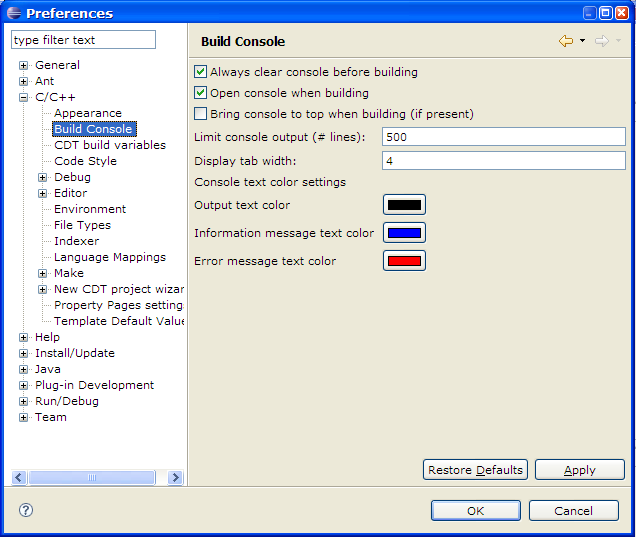
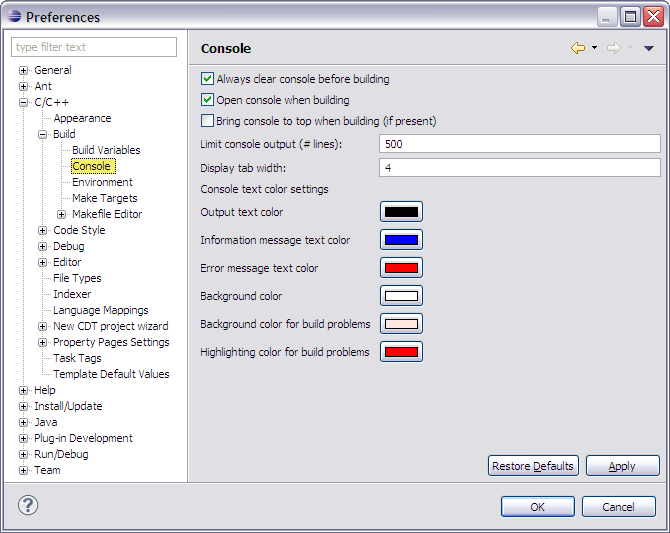
Revised Build Console pref panel to renamed Console pref panel with updated image.

Changed region(s): [[0.0, 0.0, 1.0, 1.0]]

diff --git a/all/org.eclipse.cdt.doc.user/reference/cdt_u_build_pref.htm b/all/org.eclipse.cdt.doc.user/reference/cdt_u_build_pref.htm
@@ -4,19 +4,19 @@
 <head>
 <meta http-equiv="Content-Language" content="en-us">
 <meta http-equiv="Content-Type" content="text/html; charset=UTF-8">
-<title>Build Console preferences</title>
+<title>Console preferences</title>
 <link rel="stylesheet" type="text/css" href="../help.css">
 </head>
 
 <body>
 
-<h1>Build Console preferences</h1>
+<h1>Console preferences</h1>
 
-<p>You can customize the appearance of the <strong>Build Console</strong> view.</p>
-<p><img src="../images/cdt_pref_build_console.png" alt="Build Console Preferences Dialog Box"></p>
+<p>You can customize the appearance of the messages that appear in the <strong>Console</strong> view.</p>
+<p><img src="../images/cdt_pref_build_console.png" alt="Console Preferences Panel"></p>
 
 <table width="700px" cellpadding="5" cellspacing="0" border="1" >
-	<caption><strong>Build Console Preference Options</strong></caption>
+	<caption><strong>Console Preference Options</strong></caption>
 	<colgroup>
 		<col width="30%" valign="top" >
 		<col width="70%" valign="top" >
@@ -53,6 +53,18 @@
 		<tr>
 			<td><strong>Error message text color</strong></td>
 			<td>Customize the color of error messages in the Console view.</td>
+		</tr>
+		<tr>
+			<td><strong>Background color</strong></td>
+			<td>Customize the background color in the Console view.</td>
+		</tr>
+		<tr>
+			<td><strong>Background color for build problems</strong></td>
+			<td>Customize the background color of build problems in the Console view.</td>
+		</tr>
+		<tr>
+			<td><strong>Highlighting color for build problems</strong></td>
+			<td>Customize the highlighting color of build problems in the Console view.</td>
 		</tr>
 	</tbody>
 </table>
